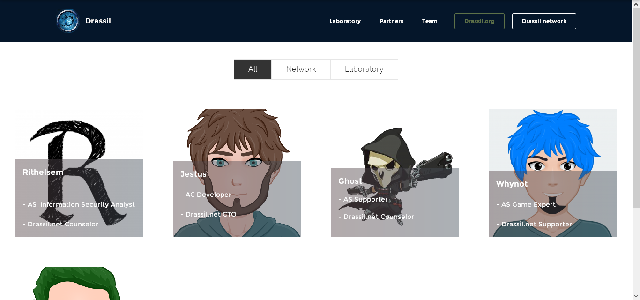
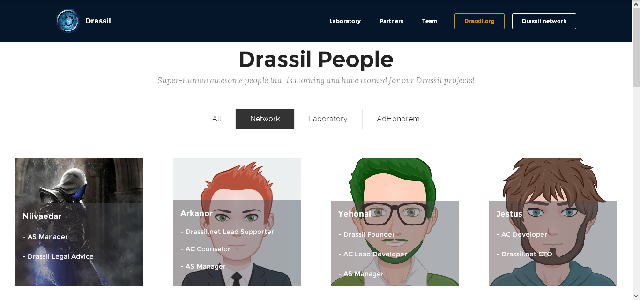
updated

diff --git a/pages/team.html b/pages/team.html
@@ -59,12 +59,12 @@
 
 </section>
 
-<section class="engine"><a rel="external" href="https://mobirise.com">Mobirise</a></section><section class="mbr-section mbr-section__container article mbr-after-navbar" id="header3-f" style="background-color: rgb(255, 255, 255); padding-top: 100px; padding-bottom: 20px;">
+<section class="engine"><a rel="external" href="https://mobirise.com">mobirise.com</a></section><section class="mbr-section mbr-section__container article mbr-after-navbar" id="header3-f" style="background-color: rgb(255, 255, 255); padding-top: 100px; padding-bottom: 20px;">
     <div class="container">
         <div class="row">
             <div class="col-xs-12">
                 <h3 class="mbr-section-title display-2">Drassil People</h3>
-                <small class="mbr-section-subtitle">Super-human awesome people that is working and have worked for our Drassil projects!<br></small>
+                <small class="mbr-section-subtitle">Super-human awesome people that is working and have worked for our Drassil projects!<br>(random order)</small>
             </div>
         </div>
     </div>
@@ -88,23 +88,13 @@
                             
                             
 
-                            <img alt="" src="assets/images/9e66b185aea0de61e940e9b694f48071-2000x2000-800x800.png">
-                            
-                            <span class="icon-focus"></span>
-                            <span class="mbr-gallery-title"><p><a href="https://it.gravatar.com/niivaedar" target="_blank" class="text-white"><strong>Niivaedar</strong></a><a href="https://it.gravatar.com/niivaedar" target="_blank"></a><strong><a href="https://it.gravatar.com/matem6" target="_blank" class="text-white"></a></strong><br><br>- AS Manager<br><br>- Drassil Legal Advice<br><br></p></span>
-                        </div>
-                    </div><div class="mbr-gallery-item mbr-gallery-item__mobirise3 mbr-gallery-item--p2" data-tags="Network" data-video-url="false">
-                        <div href="#lb-gallery4-a" data-slide-to="1" data-toggle="modal">
-                            
-                            
-
                             <img alt="" src="assets/images/a486124cd5f811dee6ce95490c6ec664-2000x2000-800x800.png">
                             
                             <span class="icon-focus"></span>
-                            <span class="mbr-gallery-title"><p><strong><a href="https://it.gravatar.com/arkan0r" target="_blank" class="text-white">Arkanor</a></strong></p><p><a href="https://it.gravatar.com/rithelsem" target="_blank" class="text-white">-</a>&nbsp;Drassil.net Lead Supporter</p><p><span style="line-height: 1.5;">- AC Counselor</span></p><p>- AS Manager&nbsp;</p></span>
+                            <span class="mbr-gallery-title"><p><strong><a href="https://it.gravatar.com/arkan0r" target="_blank" class="text-white">Arkanor</a></strong></p><p>-&nbsp;Drassil.net Lead Supporter</p><p><span style="line-height: 1.5;">- AC Counselor</span></p><p>- AS Manager&nbsp;</p></span>
                         </div>
                     </div><div class="mbr-gallery-item mbr-gallery-item__mobirise3 mbr-gallery-item--p2" data-tags="Network,Laboratory" data-video-url="false">
-                        <div href="#lb-gallery4-a" data-slide-to="2" data-toggle="modal">
+                        <div href="#lb-gallery4-a" data-slide-to="1" data-toggle="modal">
                             
                             
 
@@ -112,6 +102,16 @@
                             
                             <span class="icon-focus"></span>
                             <span class="mbr-gallery-title"><strong><a href="http://it.gravatar.com/yehonal" target="_blank" class="text-white">Yehonal</a></strong><br><br>- Drassil Founder<br><br>- AC Lead Developer<br><br>- AS Manager<br></span>
+                        </div>
+                    </div><div class="mbr-gallery-item mbr-gallery-item__mobirise3 mbr-gallery-item--p2" data-tags="Network" data-video-url="false">
+                        <div href="#lb-gallery4-a" data-slide-to="2" data-toggle="modal">
+                            
+                            
+
+                            <img alt="" src="assets/images/9e66b185aea0de61e940e9b694f48071-2000x2000-800x800.png">
+                            
+                            <span class="icon-focus"></span>
+                            <span class="mbr-gallery-title"><p><a href="https://it.gravatar.com/niivaedar" target="_blank" class="text-white"><strong>Niivaedar</strong></a><a href="https://it.gravatar.com/niivaedar" target="_blank"></a><strong><a href="https://it.gravatar.com/matem6" target="_blank" class="text-white"></a></strong><br><br>- AS Manager<br><br>- Drassil Legal Advice<br><br></p></span>
                         </div>
                     </div><div class="mbr-gallery-item mbr-gallery-item__mobirise3 mbr-gallery-item--p2" data-tags="Network,Laboratory" data-video-url="false">
                         <div href="#lb-gallery4-a" data-slide-to="3" data-toggle="modal">
@@ -141,7 +141,7 @@
                             <img alt="" src="assets/images/unknown-user-pic-2000x2000-800x800.jpg">
                             
                             <span class="icon-focus"></span>
-                            <span class="mbr-gallery-title"><p><span style="font-size: 17px; line-height: 25px;"><strong>Shin</strong></span></p><p><a href="https://it.gravatar.com/rithelsem" target="_blank" class="text-white">-</a>&nbsp;AC Manager</p><p>- Drassil.net Counselor</p></span>
+                            <span class="mbr-gallery-title"><p><span style="font-size: 17px; line-height: 25px;"><strong>Shin</strong></span></p><p>-&nbsp;AC Manager</p><p>- Drassil.net Counselor</p></span>
                         </div>
                     </div><div class="mbr-gallery-item mbr-gallery-item__mobirise3 mbr-gallery-item--p2" data-tags="Network" data-video-url="false">
                         <div href="#lb-gallery4-a" data-slide-to="6" data-toggle="modal">
@@ -151,7 +151,7 @@
                             <img alt="" src="assets/images/af8790302bcbb97062873431312f4b2c-2000x2000-800x800.png">
                             
                             <span class="icon-focus"></span>
-                            <span class="mbr-gallery-title"><strong><a href="https://it.gravatar.com/rithelsem" target="_blank" class="text-white">Rithelsem</a></strong><br><br><a href="https://it.gravatar.com/rithelsem" target="_blank" class="text-white">-</a>&nbsp;AS &nbsp;Information Security Analyst<br><br>- Drassil.net Counselor&nbsp;<br><br><br></span>
+                            <span class="mbr-gallery-title"><strong><a href="https://it.gravatar.com/rithelsem" target="_blank" class="text-white">Rithelsem</a></strong><br><br>-&nbsp;AS &nbsp;Information Security Analyst<br><br>- Drassil.net Counselor&nbsp;<br><br><br></span>
                         </div>
                     </div><div class="mbr-gallery-item mbr-gallery-item__mobirise3 mbr-gallery-item--p2" data-tags="Network,Laboratory,AdHonorem" data-video-url="false">
                         <div href="#lb-gallery4-a" data-slide-to="7" data-toggle="modal">
@@ -161,7 +161,7 @@
                             <img alt="" src="assets/images/unknown-user-pic-2000x2000-800x800.jpg">
                             
                             <span class="icon-focus"></span>
-                            <span class="mbr-gallery-title"><p><span style="font-size: 17px; line-height: 25px;"><strong>Mik1893</strong></span></p><p><a href="https://it.gravatar.com/rithelsem" target="_blank" class="text-white">-</a>&nbsp;AC Developer</p><p><br></p><p><span style="line-height: 1.5;"><br></span></p></span>
+                            <span class="mbr-gallery-title"><p><span style="font-size: 17px; line-height: 25px;"><strong>Mik1893 (Sceicco)</strong></span></p><p>-&nbsp;AC Developer</p><p><br></p><p><span style="line-height: 1.5;"><br></span></p></span>
                         </div>
                     </div><div class="mbr-gallery-item mbr-gallery-item__mobirise3 mbr-gallery-item--p2" data-tags="Network" data-video-url="false">
                         <div href="#lb-gallery4-a" data-slide-to="8" data-toggle="modal">
@@ -181,7 +181,7 @@
                             <img alt="" src="assets/images/468816-2000x2000-800x800.png">
                             
                             <span class="icon-focus"></span>
-                            <span class="mbr-gallery-title"><p><span style="font-size: 17px; line-height: 25px;"><strong>Rochet2</strong></span></p><p><a href="https://it.gravatar.com/rithelsem" target="_blank" class="text-white">-</a>&nbsp;AC Developer</p><p>- Eluna Founder</p><p><span style="line-height: 1.5;"><br></span></p></span>
+                            <span class="mbr-gallery-title"><p><span style="font-size: 17px; line-height: 25px;"><strong>Rochet2</strong></span></p><p>-&nbsp;AC Developer</p><p>- Eluna Founder</p><p><span style="line-height: 1.5;"><br></span></p></span>
                         </div>
                     </div><div class="mbr-gallery-item mbr-gallery-item__mobirise3 mbr-gallery-item--p2" data-tags="Network" data-video-url="false">
                         <div href="#lb-gallery4-a" data-slide-to="10" data-toggle="modal">
@@ -191,7 +191,7 @@
                             <img alt="" src="assets/images/helias-2000x2000-800x800.png">
                             
                             <span class="icon-focus"></span>
-                            <span class="mbr-gallery-title"><p><strong><a href="https://it.gravatar.com/heliasdev" target="_blank" class="text-white">Helias</a></strong></p><p><a href="https://it.gravatar.com/rithelsem" target="_blank" class="text-white">-</a>&nbsp;AC Web &amp; DB Developer</p><p><span style="line-height: 1.5;">- AS Counselor</span></p><p><span style="line-height: 1.5;"><br></span></p></span>
+                            <span class="mbr-gallery-title"><p><strong><a href="https://it.gravatar.com/heliasdev" target="_blank" class="text-white">Helias</a></strong></p><p>-&nbsp;AC Web &amp; DB Developer</p><p><span style="line-height: 1.5;">- AS Counselor</span></p><p><span style="line-height: 1.5;"><br></span></p></span>
                         </div>
                     </div><div class="mbr-gallery-item mbr-gallery-item__mobirise3 mbr-gallery-item--p2" data-tags="Network,Laboratory" data-video-url="false">
                         <div href="#lb-gallery4-a" data-slide-to="11" data-toggle="modal">
@@ -201,7 +201,7 @@
                             <img alt="" src="assets/images/dd67f095b2090b2fa466d13cc37d6197-2000x2000-800x800.png">
                             
                             <span class="icon-focus"></span>
-                            <span class="mbr-gallery-title"><p><a href="https://it.gravatar.com/gabrir1" target="_blank" class="text-white"><strong>Gargarensis</strong></a><a href="https://it.gravatar.com/gabrir1" target="_blank"></a><strong><a href="https://it.gravatar.com/heliasdev" target="_blank" class="text-white"></a></strong></p><p><a href="https://it.gravatar.com/rithelsem" target="_blank" class="text-white">-</a>&nbsp;AC Developer</p><p><span style="line-height: 1.5;">- AS Counselor</span></p><p><span style="line-height: 1.5;"><br></span></p></span>
+                            <span class="mbr-gallery-title"><p><a href="https://it.gravatar.com/gabrir1" target="_blank" class="text-white"><strong>Gargarensis</strong></a><a href="https://it.gravatar.com/gabrir1" target="_blank"></a><strong><a href="https://it.gravatar.com/heliasdev" target="_blank" class="text-white"></a></strong></p><p>-&nbsp;AC Developer</p><p><span style="line-height: 1.5;">- AS Counselor</span></p><p><span style="line-height: 1.5;"><br></span></p></span>
                         </div>
                     </div><div class="mbr-gallery-item mbr-gallery-item__mobirise3 mbr-gallery-item--p2" data-tags="Network" data-video-url="false">
                         <div href="#lb-gallery4-a" data-slide-to="12" data-toggle="modal">
@@ -211,7 +211,7 @@
                             <img alt="" src="assets/images/unknown-user-pic-2000x2000-800x800.jpg">
                             
                             <span class="icon-focus"></span>
-                            <span class="mbr-gallery-title"><p><span style="font-size: 17px; line-height: 25px;"><strong>Thurin</strong></span></p><p><a href="https://it.gravatar.com/rithelsem" target="_blank" class="text-white">-</a>&nbsp;AS Chief Supporter</p><p><br></p><p><span style="line-height: 1.5;"><br></span></p></span>
+                            <span class="mbr-gallery-title"><p><span style="font-size: 17px; line-height: 25px;"><strong>Thurin</strong></span></p><p>-&nbsp;AS Chief Supporter</p><p>- Drassil.net Counselor</p><p><span style="line-height: 1.5;"><br></span></p></span>
                         </div>
                     </div><div class="mbr-gallery-item mbr-gallery-item__mobirise3 mbr-gallery-item--p2" data-tags="Network,Laboratory" data-video-url="false">
                         <div href="#lb-gallery4-a" data-slide-to="13" data-toggle="modal">
@@ -221,7 +221,7 @@
                             <img alt="" src="assets/images/unknown-user-pic-2000x2000-800x800.jpg">
                             
                             <span class="icon-focus"></span>
-                            <span class="mbr-gallery-title"><p><span style="font-size: 17px; line-height: 25px;"><strong>Talamortis</strong></span></p><p><a href="https://it.gravatar.com/rithelsem" target="_blank" class="text-white">-</a>&nbsp;AC Developer</p><p><span style="line-height: 1.5;">- Wildhammer Manager</span></p><p><span style="line-height: 1.5;"><br></span></p></span>
+                            <span class="mbr-gallery-title"><p><span style="font-size: 17px; line-height: 25px;"><strong>Talamortis</strong></span></p><p>-&nbsp;AC Developer</p><p><span style="line-height: 1.5;">- Wildhammer Manager</span></p><p><span style="line-height: 1.5;"><br></span></p></span>
                         </div>
                     </div><div class="mbr-gallery-item mbr-gallery-item__mobirise3 mbr-gallery-item--p2" data-tags="Network" data-video-url="false">
                         <div href="#lb-gallery4-a" data-slide-to="14" data-toggle="modal">
@@ -231,7 +231,7 @@
                             <img alt="" src="assets/images/unknown-user-pic-2000x2000-800x800.jpg">
                             
                             <span class="icon-focus"></span>
-                            <span class="mbr-gallery-title"><p><span style="font-size: 17px; line-height: 25px;"><strong>Starrheld</strong></span></p><p><a href="https://it.gravatar.com/rithelsem" target="_blank" class="text-white">-</a>&nbsp;AC Developer</p><p><br></p><p><span style="line-height: 1.5;"><br></span></p></span>
+                            <span class="mbr-gallery-title"><p><span style="font-size: 17px; line-height: 25px;"><strong>Starrheld</strong></span></p><p>-&nbsp;AC Developer</p><p><br></p><p><span style="line-height: 1.5;"><br></span></p></span>
                         </div>
                     </div>
                 </div>
@@ -250,11 +250,11 @@
                     </ol>
                     <div class="carousel-inner">
                         <div class="carousel-item">
-                            <img alt="" src="assets/images/9e66b185aea0de61e940e9b694f48071-2000x2000.png">
-                        </div><div class="carousel-item">
                             <img alt="" src="assets/images/a486124cd5f811dee6ce95490c6ec664-2000x2000.png">
                         </div><div class="carousel-item">
                             <img alt="" src="assets/images/768de7aeb42bd1ef73d913a12a980c11-2000x2000.png">
+                        </div><div class="carousel-item">
+                            <img alt="" src="assets/images/9e66b185aea0de61e940e9b694f48071-2000x2000.png">
                         </div><div class="carousel-item">
                             <img alt="" src="assets/images/myavatar-7-2000x2000.png">
                         </div><div class="carousel-item">
@@ -347,7 +347,7 @@
   <script src="assets/mobirise-gallery/player.min.js"></script>
   <script src="assets/mobirise-gallery/script.js"></script>
   
-  
+  <script src="custom/js/custom.js"></script>
   <input name="animation" type="hidden">
   </body>
 </html>

diff --git a/pages/custom/js/custom.js b/pages/custom/js/custom.js
@@ -1,0 +1,30 @@
+(function () {
+    "use strict";
+
+    function shuffleArray(array) {
+        for (var i = array.length - 1; i > 0; i--) {
+            var j = Math.floor(Math.random() * (i + 1));
+            var temp = array[i];
+            array[i] = array[j];
+            array[j] = temp;
+        }
+        return array;
+    }
+
+    // Cycle over each .shuffledv HTMLElement
+    // Remove all divs within, store in $d
+    var $d = $(".mbr-gallery-layout-default > div > div > div").remove();
+    // Sort $d randomnly
+    $d = shuffleArray($d);
+    // Append divs within $d to .shuffledv again
+    $d.appendTo(".mbr-gallery-layout-default > div > div");
+
+    $(".mbr-gallery-layout-default > div > div > div").each(function() {
+        $(this).children().first().removeAttr("data-toggle");
+
+        var $a=$(this).find("a").first();
+        if ($a && $a.text()) {
+            $(this).children().first().wrap("<a target='_blank' href='"+$a[0].href+"'></a>");
+        }
+    });
+}());

diff --git a/pages/partners.html b/pages/partners.html
@@ -59,7 +59,7 @@
 
 </section>
 
-<section class="engine"><a rel="external" href="https://mobirise.com">Mobirise</a></section><section class="mbr-section mbr-section__container article mbr-after-navbar" id="header3-h" style="background-color: rgb(255, 255, 255); padding-top: 120px; padding-bottom: 20px;">
+<section class="engine"><a rel="external" href="https://mobirise.com">mobirise.com</a></section><section class="mbr-section mbr-section__container article mbr-after-navbar" id="header3-h" style="background-color: rgb(255, 255, 255); padding-top: 120px; padding-bottom: 20px;">
     <div class="container">
         <div class="row">
             <div class="col-xs-12">

diff --git a/pages/laboratory.html b/pages/laboratory.html
@@ -59,7 +59,7 @@
 
 </section>
 
-<section class="engine"><a rel="external" href="https://mobirise.com">Mobirise Web Builder</a></section><section class="mbr-section mbr-after-navbar" id="msg-box5-5" style="background-color: rgb(255, 255, 255); padding-top: 160px; padding-bottom: 80px;">
+<section class="engine"><a rel="external" href="https://mobirise.com">Mobirise</a></section><section class="mbr-section mbr-after-navbar" id="msg-box5-5" style="background-color: rgb(255, 255, 255); padding-top: 160px; padding-bottom: 80px;">
 
     
     <div class="container">
